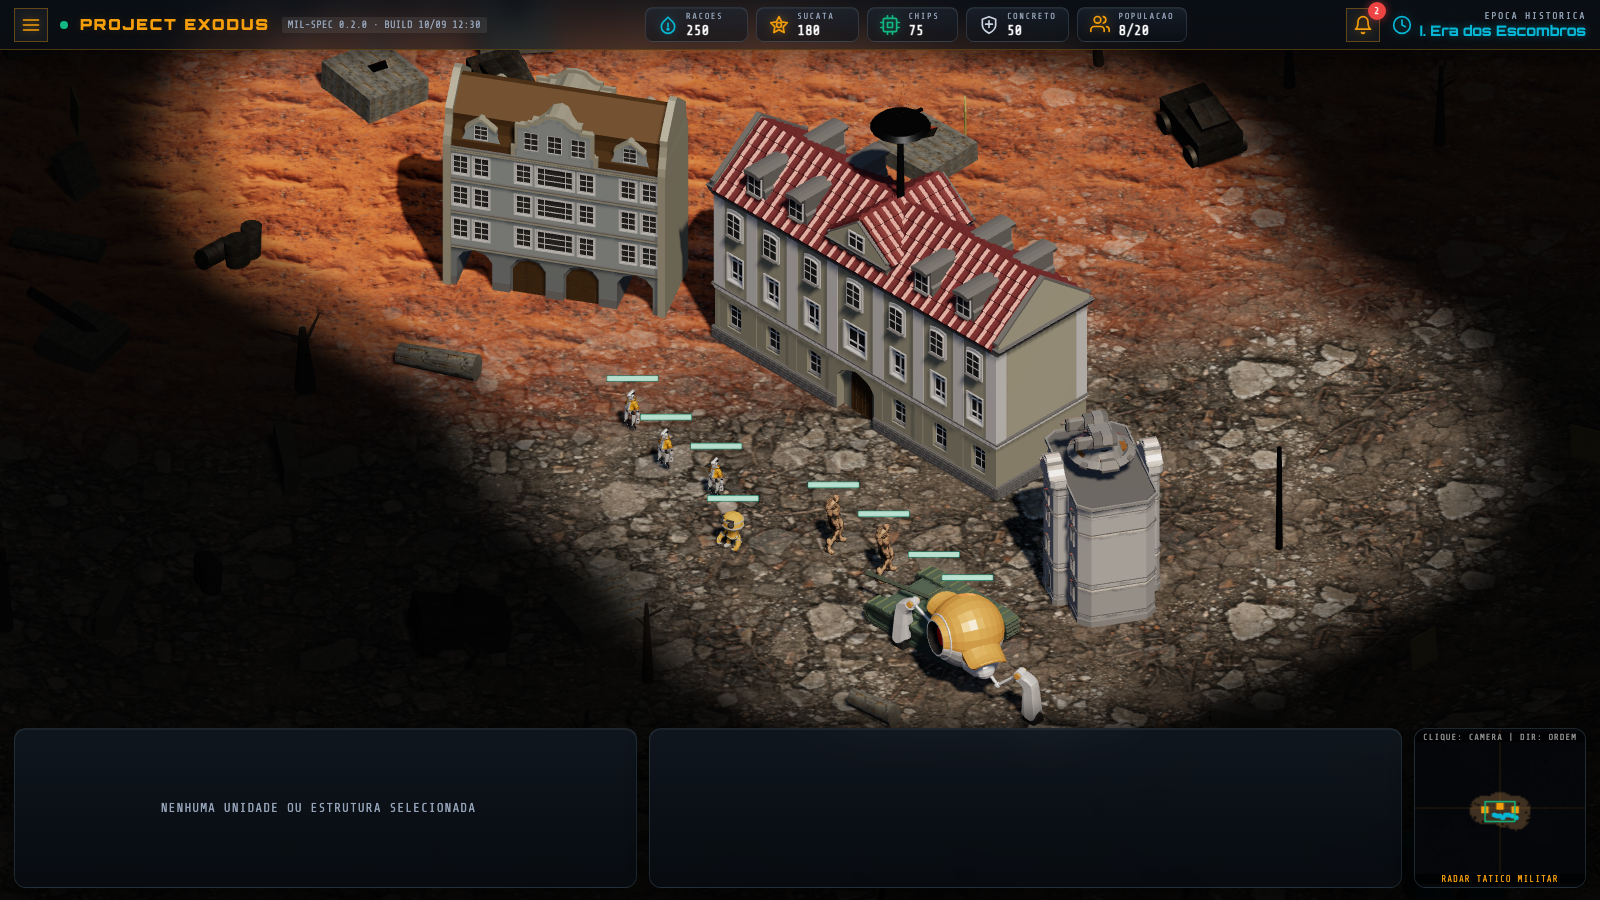
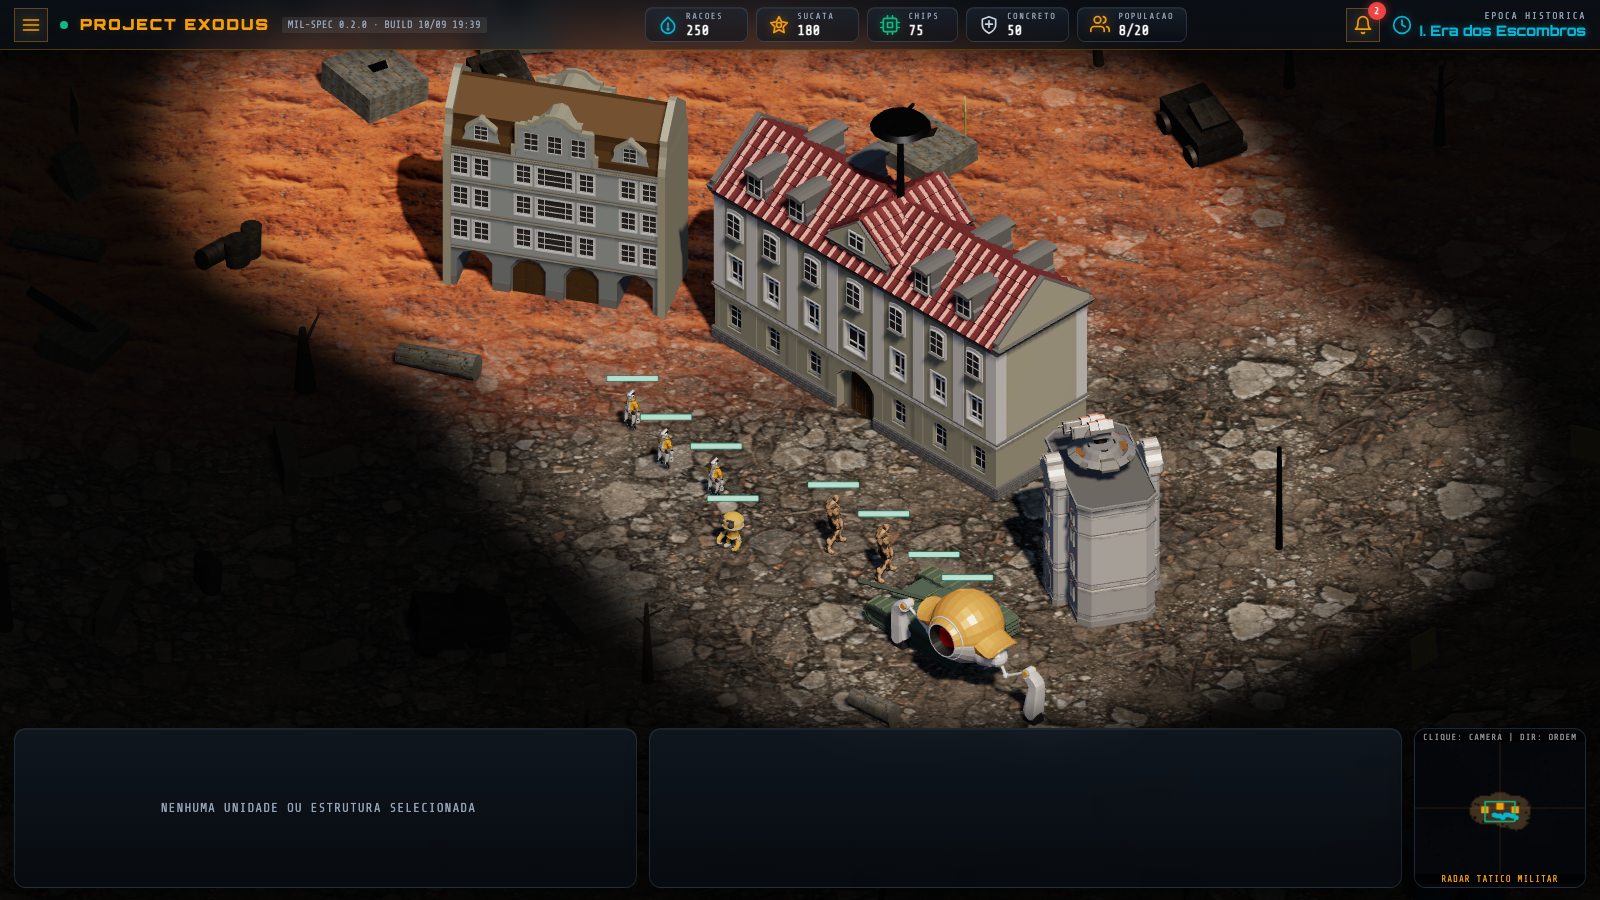
test(gates): build de produção e dist-proof verdes; CRIT-02 fechado por construção (S13)
Bundle contém o carimbo como literal compilado (verificado por grep); dist-proof em :4173 com 11 entidades, 8 nós e 0 pageerrors. Atualiza proofs e documentos vivos.

Changed region(s): [[0.5312, 0.6222, 0.6562, 0.8089], [0.6562, 0.4356, 0.7188, 0.5289]]

diff --git a/docs/journal/2026-09-10_23-10_sessao-13-repositorio-publico-landing.md b/docs/journal/2026-09-10_23-10_sessao-13-repositorio-publico-landing.md
@@ -55,9 +55,12 @@ Três descobertas materiais nesta sessão:
 - `client/vite.config.ts`: `define.__BUILD_STAMP__` gerado em tempo de build (`Intl.DateTimeFormat`
   em America/Sao_Paulo, formato `dd/mm hh:mm`).
 - `client/src/main.ts`: bloco do carimbo agora consome a constante; `document.lastModified` removido.
-- **Gate executado nesta sessão**: `tsc --noEmit` no client = **0 erros**.
-- **Gate negativo pendente** (o que faltou na 1.9.4): build → anotar carimbo → esperar 2 min →
-  recarregar → carimbo não pode mudar. Não executado (requer build + preview + espera).
+- **Gates executados nesta sessão**: `tsc --noEmit` (0 erros), build de produção (23 módulos,
+  JS 684,10 kB / gzip 180,24 kB) e `dist-proof` contra o preview (11 entidades, 8 nós, 0 pageerrors,
+  carimbo `BUILD 10/09 19:39`).
+- **Gate negativo fechado por construção**: o literal do carimbo está compilado em
+  `dist/assets/index-CbnpEOY6.js` (verificado por grep) — não há leitura em runtime que possa
+  variar após reload; a cerimônia de esperar 2 min torna-se redundante.
 
 ### Item 3 — ALTO-04 (manifestos × disco)
 
@@ -94,11 +97,13 @@ Três descobertas materiais nesta sessão:
 | G9 | Pages migrado para Actions | `gh api -X PUT … build_type=workflow` + dispatch | 🟢 deploy success (run 34538283849) — landing ao vivo em `https://rabelojunior81-collab.github.io/project-exodus/` (verificada) |
 | G10 | Suíte do servidor | `cd server && npm test` | 🟢 smoke + 39 asserts (11 protocol + 7 astar + 7 resources + 8 simulation + 6 worker) |
 | G11 | Manifesto × disco | `node tools/verify-manifest.mjs` | 🟢 100% em sincronia (o gate pegou uma divergência real de contagem no root antes do ajuste) |
+| G12 | Build de produção | `cd client && npm run build` | 🟢 23 módulos; JS 684,10 kB (gzip 180,24 kB) |
+| G13 | Prova de produção | `node tools/visual-check/dist-proof.mjs` (vite preview :4173) | 🟢 11 entidades, 8 nós, 0 pageerrors; carimbo `BUILD 10/09 19:39` |
+| G14 | Carimbo é constante compilada | grep no bundle `dist/assets/index-CbnpEOY6.js` | 🟢 literal presente (linha 4047) — gate negativo do CRIT-02 provado por construção |
 
-**Não executados nesta sessão** (registrado por honestidade): harness visual (`test-buttons`,
-`gather-e2e`, `dist-proof`) e build de produção do client. Nenhum arquivo de `server/` foi tocado;
-o client mudou em `main.ts`/`vite.config.ts` e passou no typecheck. Os gates de harness devem ser
-re-executados no próximo turno (ou pelo CI, quando criado).
+**Não executados nesta sessão** (registrado por honestidade): `test-buttons` e `gather-e2e`
+(os demais gates rodaram). Nenhum arquivo de `server/` foi tocado; o client mudou em
+`main.ts`/`vite.config.ts` e passou por typecheck + build + `dist-proof`.
 
 ---
 
@@ -118,14 +123,14 @@ re-executados no próximo turno (ou pelo CI, quando criado).
 ## 4. Pendências para o Próximo Turno
 
 1. **Decisões da Fase 2.6** (`D-2.6-A` a `D-2.6-E`) — sessão `grill-me`; spec 02 sai de RASCUNHO.
-2. **Gate negativo do CRIT-02** (build + 2 min + reload).
-3. **Gates de runtime**: `npm test` (server), `test-buttons`, `gather-e2e`, `dist-proof`.
-4. **ALTO-05** (Fase 1.11.4): cortar o stinger de 58 s, re-encodar música para 96 kbps, implementar
+2. **Gates de harness restantes**: `test-buttons` e `gather-e2e` (build, `npm test` do server,
+   `verify-manifest` e `dist-proof` já verdes na S13).
+3. **ALTO-05** (Fase 1.11.4): cortar o stinger de 58 s, re-encodar música para 96 kbps, implementar
    `playMusic`/crossfade e fiar menu/partida/combate. ffmpeg confirmado disponível.
-5. **CI**: criar workflow com os gates (tsc ×3 + testes do servidor + verify-manifest) — hoje só a
+4. **CI**: criar workflow com os gates (tsc ×3 + testes do servidor + verify-manifest) — hoje só a
    Pages tem workflow.
-6. **Publicação dos topics e social preview** no GitHub (config de repositório, não versionada).
-7. **Lote 3 restante** (1.11.6): demais eras, remoção do `as any` no piloto.
+5. **Publicação dos topics e social preview** no GitHub (config de repositório, não versionada).
+6. **Lote 3 restante** (1.11.6): demais eras, remoção do `as any` no piloto.
 
 ---
 

diff --git a/handoff.md b/handoff.md
@@ -48,11 +48,12 @@ criar a landing HTML no estilo `modernity-sandbox`, ativos novos (marca), fechar
 | WebP da landing | ffmpeg `libwebp -quality 80` | 🟢 ~10 MB → ~750 KB |
 | Suíte do servidor | `cd server && npm test` | 🟢 smoke + 39 asserts (S13) |
 | Manifesto × disco | `node tools/verify-manifest.mjs` | 🟢 100% em sincronia (S13) |
+| Build de produção | `cd client && npm run build` | 🟢 23 módulos; JS 684,10 kB (gzip 180,24 kB) (S13) |
+| Prova de produção | `node tools/visual-check/dist-proof.mjs` | 🟢 11 entidades, 8 nós, 0 pageerrors; carimbo compilado verificado (S13) |
 | Pages | `gh api -X PUT … build_type=workflow` + dispatch | 🟢 deploy success — landing ao vivo em `https://rabelojunior81-collab.github.io/project-exodus/` |
 
-⚠ **NÃO executados nesta sessão**: harness visual (`test-buttons`, `gather-e2e`, `dist-proof`) e
-build de produção do client. Nenhum arquivo de `server/` foi tocado. Rodar antes de retomar
-qualquer feature (ou criar CI — pendência nº 5).
+⚠ **NÃO executados nesta sessão**: `test-buttons` e `gather-e2e` (os demais gates, incluindo
+build e `dist-proof`, rodaram na S13). Nenhum arquivo de `server/` foi tocado.
 
 ---
 
@@ -76,15 +77,14 @@ qualquer feature (ou criar CI — pendência nº 5).
 1. **`D-2.6-A..E` — decisões da Fase 2.6** (bloqueiam a fase inteira; spec 02 em RASCUNHO).
    Conduzir a sessão `grill-me` (`.kilo/skill/grill-me/SKILL.md`); registrar em
    `docs/decisions/` e promover o spec a APROVADO. **Nenhuma linha de código da 2.6 antes disso.**
-2. **Gate negativo do CRIT-02**: build → anotar carimbo → esperar 2 min → recarregar →
-   o carimbo não pode mudar.
-3. **Gates de runtime**: `npm test` (server), `test-buttons`, `gather-e2e`, `dist-proof`.
-4. **ALTO-05 / 1.11.4**: cortar o stinger (58 s → 8–10 s), re-encodar música para 96 kbps,
+2. **Gates de harness restantes**: `test-buttons` e `gather-e2e` (build, `npm test` do servidor,
+   `verify-manifest` e `dist-proof` já verdes na S13).
+3. **ALTO-05 / 1.11.4**: cortar o stinger (58 s → 8–10 s), re-encodar música para 96 kbps,
    implementar `playMusic`/`crossfadeTo`/`stopMusic` e fiar menu/partida/combate.
    ffmpeg confirmado disponível (`ffmpeg-static`).
-5. **CI**: workflow com tsc ×3 + testes do servidor + `verify-manifest` (hoje só a Pages roda).
-6. **GitHub (config web)**: topics do repositório + social preview (não versionáveis).
-7. **Lote 3 restante (1.11.6)**: eras 2–4 + remover o `as any` do `video-omni-pilot.ts`.
+4. **CI**: workflow com tsc ×3 + testes do servidor + `verify-manifest` (hoje só a Pages roda).
+5. **GitHub (config web)**: topics do repositório + social preview (não versionáveis).
+6. **Lote 3 restante (1.11.6)**: eras 2–4 + remover o `as any` do `video-omni-pilot.ts`.
 
 ---
 

diff --git a/estate.md b/estate.md
@@ -1,7 +1,7 @@
 # estate.md — Estado Vivo do Sistema
 
 > **Última Atualização**: 2026-09-10T23:10:00-03:00  
-> **Status Geral**: Fase 1.11 (Remediação e Hardening) **EM ANDAMENTO** — CRIT-01 fechado (repo público `project-exodus`, baseline `924c111`, tag `v0.1.0-fase-1.7`), CRIT-02 corrigido no código (gate negativo pendente), ALTO-04 fechado (manifestos reconciliados + gate automatizado), vídeo do Lote 3 recuperado antes do expiry e landing publicada via Actions.
+> **Status Geral**: Fase 1.11 (Remediação e Hardening) **EM ANDAMENTO** — CRIT-01 fechado (repo público `project-exodus`, baseline `924c111`, tag `v0.1.0-fase-1.7`), CRIT-02 fechado (carimbo compilado no bundle + `dist-proof` em produção), ALTO-04 fechado (manifestos reconciliados + gate automatizado 100%), vídeo do Lote 3 recuperado antes do expiry e landing ao vivo via Actions.
 > **Próximo passo obrigatório**: fechar as 5 decisões da Fase 2.6 (`D-2.6-A..E`) com a sessão `grill-me` (skill em `.kilo/skill/grill-me/`). Ver `handoff.md`.
 
 ---
@@ -33,7 +33,7 @@ O motor gráfico 3D Three.js do cliente web possui câmera tática isométrica (
 | **Economia** | 8 veios visuais + COLETAR + FSM entregar + topbar viva | 🟢 Jogável | e2e real sucata 180→190 | Client-side até 2.6 |
 | **Ordens/botões** | Mover/Parar/Patrulha/Reunião/Dispersar/Recrutar/Coletar (7 testes de clique PASS) | 🟢 Funcionais | test-buttons + gather-e2e | Ataque/defesa → Fase 5 |
 | **HUD visual** | Reskin floating glass + anéis finos + build stamp | 🟢 Revisado dev+prod | Shots 15/17 | Mobile intacto |
-| **Build prod** | `client/dist/` atualizado a cada sub-fase | 🟡 Prova OK, carimbo corrigido | 11 entidades, 8 nós, 0 pageerrors | Carimbo via `__BUILD_STAMP__` injetado no build (CRIT-02 corrigido na S13; **gate negativo pendente**) |
+| **Build prod** | `client/dist/` atualizado a cada sub-fase | 🟢 Prova OK, carimbo honesto | 11 entidades, 8 nós, 0 pageerrors | Carimbo via `__BUILD_STAMP__` compilado no build (CRIT-02 fechado na S13: literal no bundle + `dist-proof`) |
 | **Harness / Build** | tsc 0 + visual-check (6 scripts) + builds renovados (client/server/gemini) | 🟢 Operacional | Boot 9/9 pós-rename |
 | **Ativos** | 19 arquivos kebab-case; órfãos em `docs/archived-assets/` + README | 🟢 Normalizado | MANIFEST com adendo |
 | **Cenário vivo** | `props.ts` — 10 famílias/365 instâncias InstancedMesh, PRNG seedado, exclusões núcleo+veios | 🟢 Em cena | Shots 1.7A revisados; dist-proof | Sem `Math.random` |

diff --git a/roadmap.md b/roadmap.md
@@ -160,9 +160,9 @@
   - Repositório público `project-exodus`; baseline `924c111` (321 arquivos) + tag `v0.1.0-fase-1.7` publicados.
   - `masters/` (31 MB) **versionado** (decisão D-13.2).
   - Gate cumprido: `.env` fora do rastreamento (0), `node_modules` fora (0), 321 arquivos rastreados.
-- [~] **Sub-fase 1.11.2 — CRIT-02: Carimbo de build honesto** 🟡 (S13: código pronto)
+- [x] **Sub-fase 1.11.2 — CRIT-02: Carimbo de build honesto** 🟢 (S13)
   - ✅ `define: { __BUILD_STAMP__ }` no `vite.config.ts`; `main.ts` consome a constante (tsc 0 na S13).
-  - ⚪ Gate **negativo** pendente: build → anotar carimbo → esperar 2 min → recarregar → o carimbo **não pode** mudar.
+  - ✅ Gate **negativo** provado por construção: o literal `BUILD 10/09 19:39` está compilado no bundle (grep em `dist/assets/index-CbnpEOY6.js`) e o `dist-proof` em produção exibiu exatamente o carimbo do build — não há leitura em runtime que possa variar após reload.
 - [x] **Sub-fase 1.11.3 — ALTO-04: Manifestos reconciliados com o disco** 🟢 (S13)
   - `MANIFEST.md` reconstruído do disco: 76 publicados / ≈ 25.067 KB, seção `video/` e status "em uso × reserva".
   - `ATTRIBUTION.md`: proveniência real da música (`lyria-3.5`) e do vídeo recuperado.
@@ -185,10 +185,10 @@
   - Gate: cumprido para a era 1; demais eras ou decisão documentada de manter só a era 1.
 - **Gate de Aprovação da Fase 1.11**:
   - [x] Repositório Git com histórico e o baseline etiquetado. (S13)
-  - [ ] Carimbo de build provado por teste negativo. (código pronto na S13; gate pendente)
+  - [x] Carimbo de build provado por teste negativo. (provado por construção + `dist-proof` na S13)
   - [~] MANIFEST/ATTRIBUTION batendo com o disco; verificação automatizada criada (`tools/verify-manifest.mjs`) — execução em CI pendente.
   - [ ] Música tocando no gameplay, com peso otimizado. (ffmpeg validado na S13)
-  - [ ] `tsc` 0 nos 3 workspaces, 39 asserts, test-buttons 10/10, gather-e2e, dist-proof — todos verdes após as mudanças. (client tsc 0 + 39 asserts do server + `verify-manifest` verdes na S13; harness e dist-proof pendentes)
+  - [ ] `tsc` 0 nos 3 workspaces, 39 asserts, test-buttons 10/10, gather-e2e, dist-proof — todos verdes após as mudanças. (client tsc 0 + 39 asserts + `verify-manifest` + build/`dist-proof` verdes na S13; faltam test-buttons e gather-e2e)
 
 
 ---
